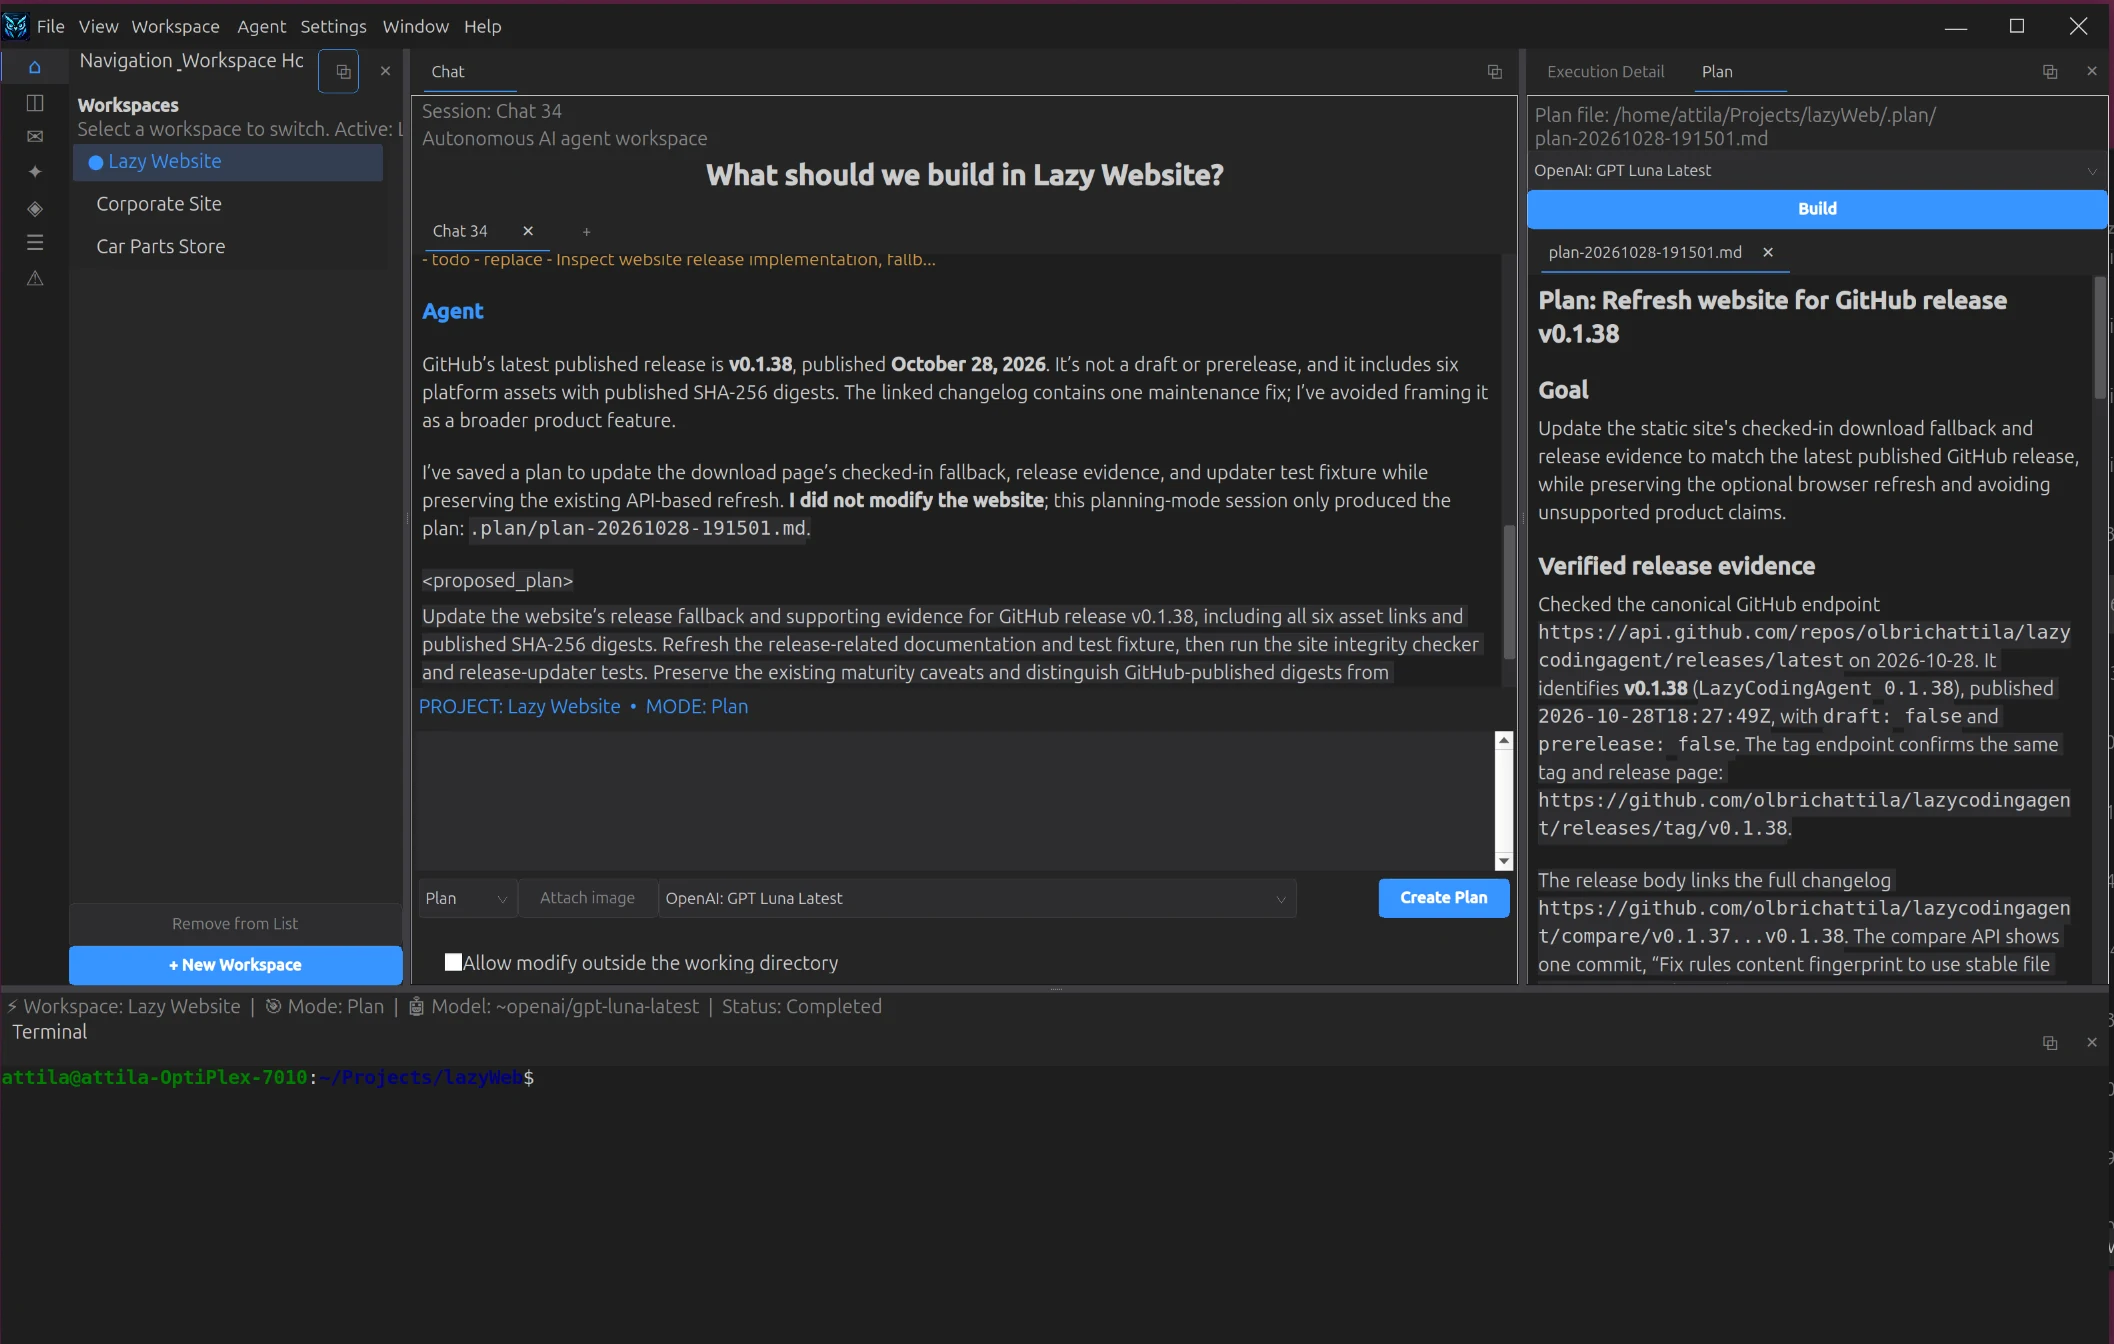
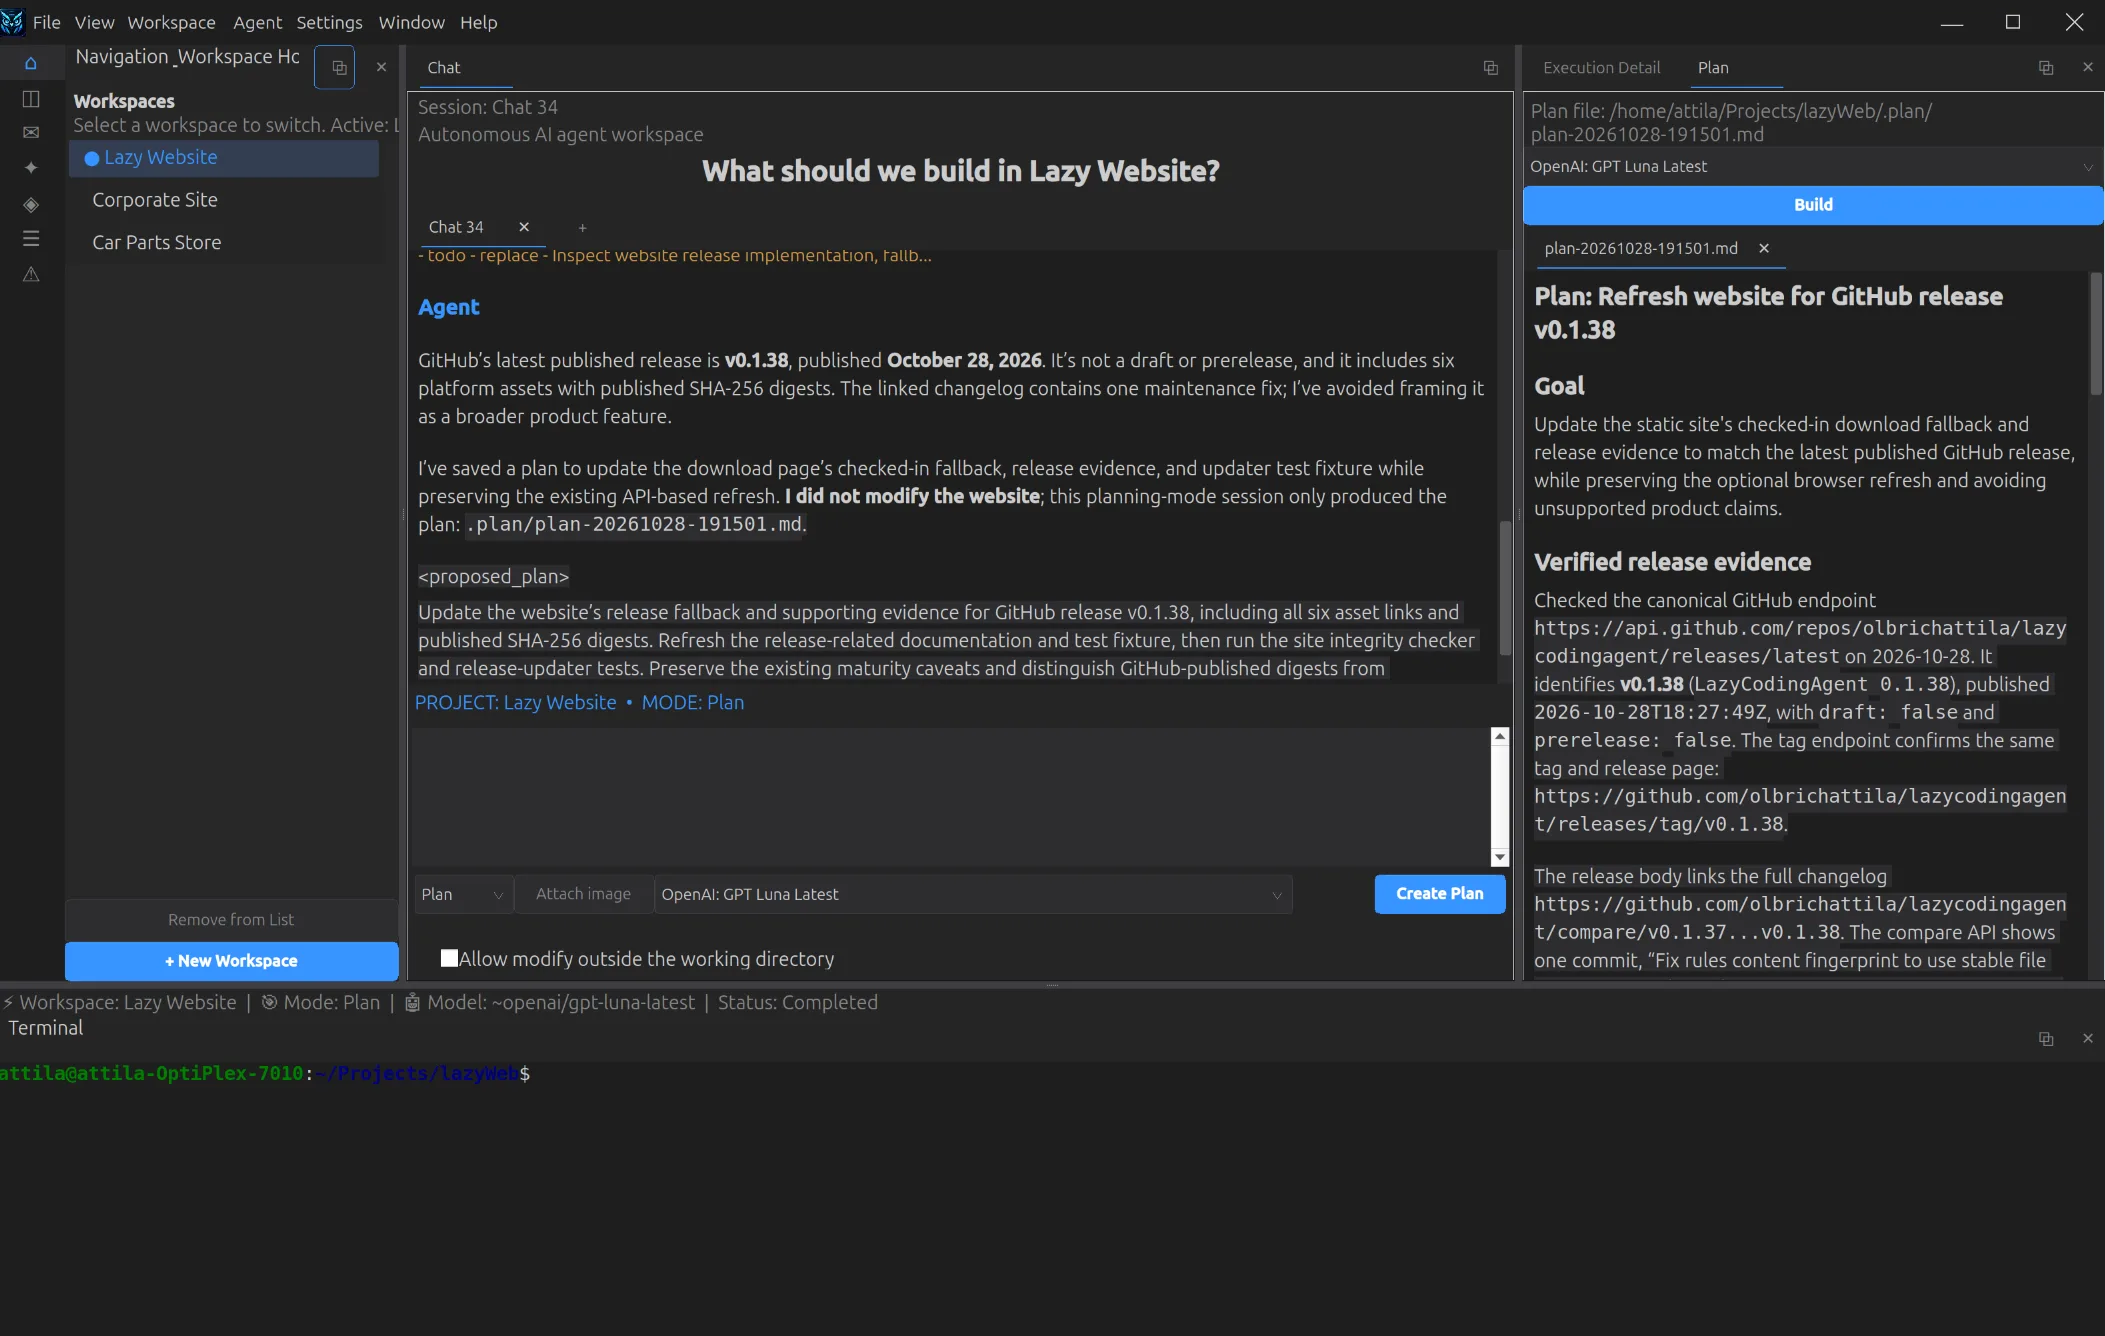
Crop pink border form screensot

diff --git a/index.html b/index.html
@@ -15,7 +15,7 @@
 <nav class="desktop-nav" aria-label="Main navigation"><ul class="nav-list"><li><a aria-current="page" href="index.html">Home</a></li><li><a href="features.html">Features</a></li><li><a href="agents.html">Agents</a></li><li><a href="download.html">Download</a></li><li><a href="roadmap.html">Roadmap</a></li><li><a href="docs/index.html">Docs</a></li><li><a href="community.html">Community</a></li></ul></nav>
 <details class="mobile-nav"><summary aria-label="Open navigation">Menu</summary><nav aria-label="Mobile navigation"><ul class="nav-list"><li><a aria-current="page" href="index.html">Home</a></li><li><a href="features.html">Features</a></li><li><a href="agents.html">Agents</a></li><li><a href="download.html">Download</a></li><li><a href="roadmap.html">Roadmap</a></li><li><a href="docs/index.html">Docs</a></li><li><a href="community.html">Community</a></li></ul></nav></details><a class="button header-download" href="https://github.com/attilaolbrich/lazycodingagent/releases" target="_blank" rel="noopener noreferrer">Download</a></div></header>
 <main id="main"><section class="hero"><div class="wrap hero-grid"><div class="hero-copy"><span class="eyebrow">Free Pascal · Lazarus · LCL</span><h1>Your desktop coding <span>workspace</span></h1><p class="lead">Lazy Coding Agent brings project navigation, an editor, chat sessions and utility panels together in a native desktop application.</p><p class="lead">Ask, Plan and Agent modes expose different tool permissions. Review the application's recorded run activity and tool inputs/outputs in its execution details.</p><div class="button-row"><a class="button" href="features.html">Explore reviewed features</a><a class="button secondary" href="agents.html">How the agent works</a></div><p class="small">Packaged builds are on <a href="download.html">GitHub Releases</a>. The README describes AI/model execution as in active integration; treat early releases accordingly.</p></div><div class="hero-art"><img src="assets/neon-owl-emblem.png" alt="Futuristic neon owl emblem for Lazy Coding Agent" fetchpriority="high"><p class="hero-brand-name">Lazy Coding <span>Agent</span></p></div></div></section>
-<section class="section"><div class="wrap"><span class="eyebrow">Desktop workspace</span><h2>Projects, editor, agent and terminal in one window</h2><p class="section-intro">The main application window brings workspace navigation, an open plan document, an agent response, and the integrated terminal together.</p><figure class="app-screenshot showcase"><img src="assets/single-window.webp" width="2114" height="1344" loading="lazy" alt="Lazy Coding Agent desktop window with workspace navigation, a chat session, an agent response, a plan document, and an integrated terminal."><figcaption>The main application window shows workspace navigation, a chat session with an agent response, an open plan document, and the terminal.</figcaption></figure></div></section><section class="section"><div class="wrap"><span class="eyebrow">Detached workspace panels</span><h2>Detached panels in floating windows</h2><p class="section-intro">The screenshot shows the Chat / AI Agent and Utility Panel windows separately beside the workspace window.</p><figure class="app-screenshot showcase"><img src="assets/detached.webp" width="3840" height="2160" loading="lazy" alt="Lazy Coding Agent workspace with separate Chat / AI Agent and Utility Panel windows and an open plan document."><figcaption>Separate Chat / AI Agent and Utility Panel windows are visible alongside the workspace window.</figcaption></figure></div></section>
+<section class="section"><div class="wrap"><span class="eyebrow">Desktop workspace</span><h2>Projects, editor, agent and terminal in one window</h2><p class="section-intro">The main application window brings workspace navigation, an open plan document, an agent response, and the integrated terminal together.</p><figure class="app-screenshot showcase"><img src="assets/single-window.webp" width="2105" height="1336" loading="lazy" alt="Lazy Coding Agent desktop window with workspace navigation, a chat session, an agent response, a plan document, and an integrated terminal."><figcaption>The main application window shows workspace navigation, a chat session with an agent response, an open plan document, and the terminal.</figcaption></figure></div></section><section class="section"><div class="wrap"><span class="eyebrow">Detached workspace panels</span><h2>Detached panels in floating windows</h2><p class="section-intro">The screenshot shows the Chat / AI Agent and Utility Panel windows separately beside the workspace window.</p><figure class="app-screenshot showcase"><img src="assets/detached.webp" width="3840" height="2160" loading="lazy" alt="Lazy Coding Agent workspace with separate Chat / AI Agent and Utility Panel windows and an open plan document."><figcaption>Separate Chat / AI Agent and Utility Panel windows are visible alongside the workspace window.</figcaption></figure></div></section>
 <section class="section"><div class="wrap"><span class="eyebrow">Reviewed in source and help</span><h2>A workspace with visible boundaries</h2><p class="section-intro">These are implementation descriptions from reviewed application files and help, not a claim that every feature is finished or user-tested on your machine.</p><div class="grid"><article class="card"><span class="badge">Workspace</span><h3>Navigate, edit and chat</h3><p>Reviewed documentation describes a project tree, single-file editor, Markdown preview, chat, and dockable utility panels.</p><p><a href="features.html#workspace">Workspace details →</a></p></article><article class="card"><span class="badge">Mode-gated tools</span><h3>Choose how the assistant acts</h3><p>Ask is read-oriented, Plan can save plan files, and Agent can use write, patch and shell tools. Workspace boundaries apply by default.</p><p><a href="features.html#modes">Modes and boundaries →</a></p></article><article class="card"><span class="badge">Execution detail</span><h3>Inspect recorded activity</h3><p>Session logs and execution detail expose application-recorded context and tool I/O; they are not a display of hidden model reasoning.</p><p><a href="agents.html">Agent loop details →</a></p></article></div></div></section>
 <section class="section"><div class="wrap"><div class="notice"><strong>Maturity and availability:</strong> Installers for Windows, Linux, macOS, and arm64 (including Raspberry Pi) are published on GitHub Releases. The README still describes AI/model execution as in active integration—downloads are available, but the product is evolving.</div><div class="button-row"><a class="button secondary" href="download.html">Download</a><a class="button secondary" href="docs/index.html">Documentation topics</a><a class="button secondary" href="roadmap.html">Planned work</a></div></div></section></main>
 <footer class="site-footer"><div class="wrap footer-inner"><div class="footer-lead"><span>Lazy Coding Agent · Desktop coding workspace.</span><span class="small">By Attila Olbrich · <a href="https://attilaolbrich.co.uk" target="_blank" rel="noopener noreferrer">https://attilaolbrich.co.uk</a></span></div><nav class="footer-links" aria-label="Footer"><a href="privacy.html">Privacy</a><a href="community.html">Community</a><a href="blog/index.html">Blog</a><a href="docs/index.html">Documentation</a></nav></div></footer>
